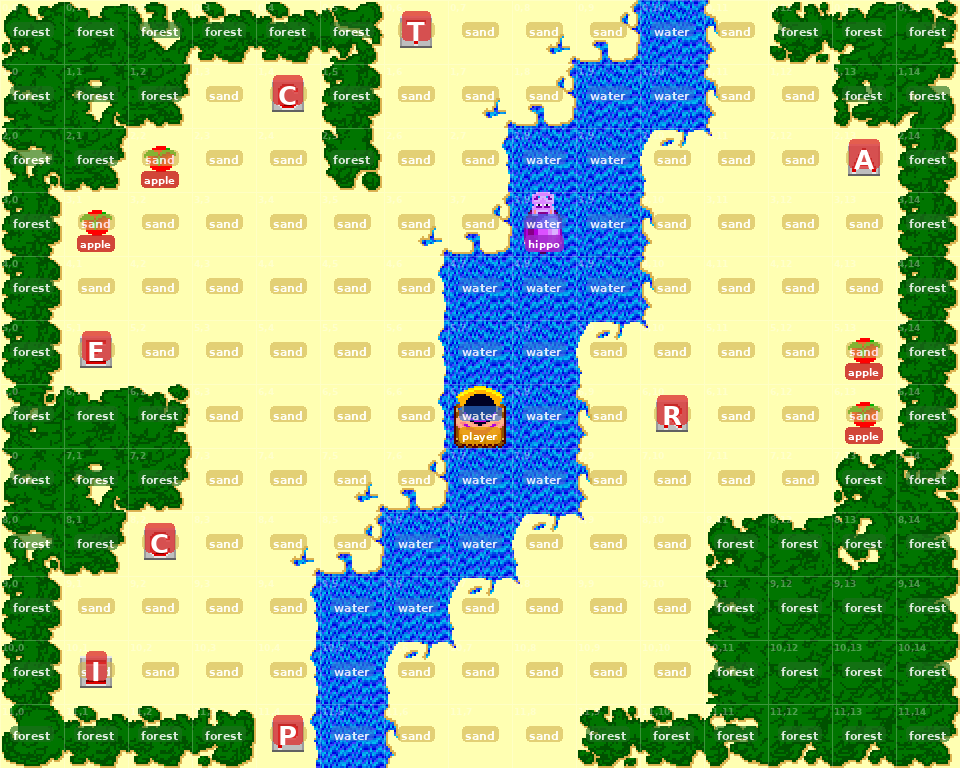
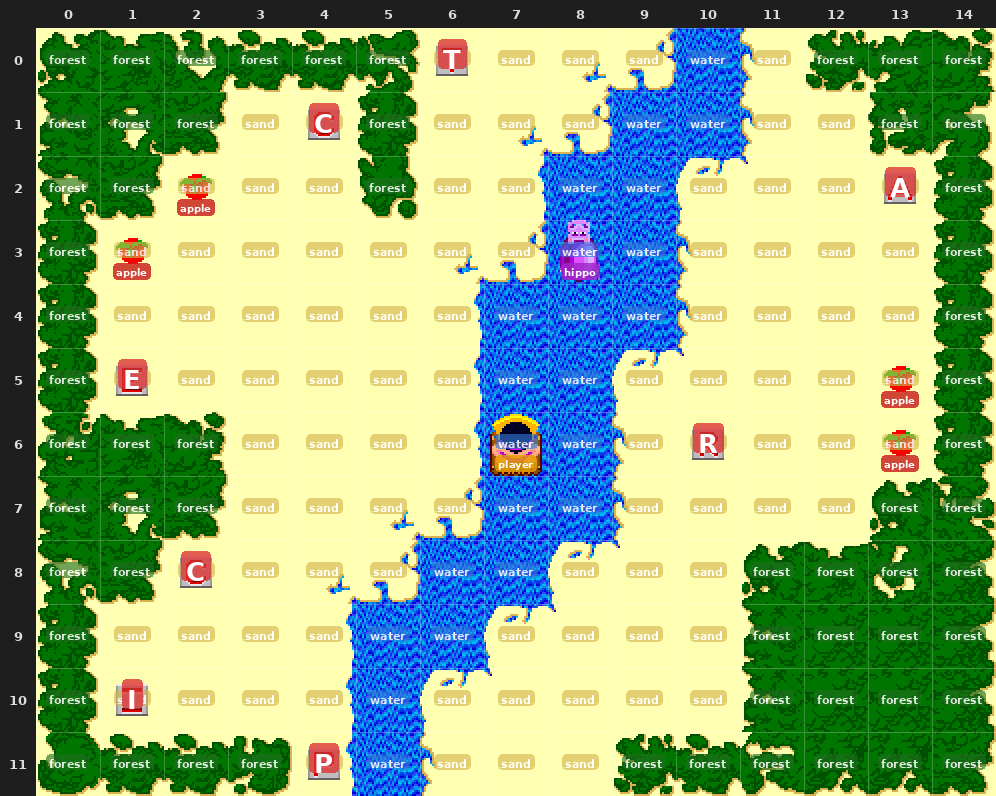
Add axis row/col labels to annotated boards
Replace per-tile coordinate text with clear axis labels:
- Column numbers (0-14) along the top margin
- Row numbers (0-11) along the left margin
- Dark grey border areas for contrast
- Tiles are no longer cluttered with r,c text on every cell

diff --git a/annotate_board.py b/annotate_board.py
@@ -22,8 +22,12 @@ TILE_SIZE = 64
 COLS = 15
 ROWS = 12
 
+# Axis label margins (pixels added outside the tile grid)
+MARGIN_LEFT = 36
+MARGIN_TOP  = 28
+
 GRID_LINE   = (255, 255, 255, 60)
-COORD_COLOR = (255, 255, 255, 80)
+AXIS_COLOR  = (220, 220, 220, 255)
 
 LETTER_BG = (220, 50, 50, 200)
 LETTER_FG = (255, 255, 255, 255)
@@ -104,28 +108,50 @@ def annotate(board_path: Path, tile_dir: Path,
              letter_refs: dict, terrain_lookup: dict,
              show: str, out_path: Path) -> None:
 
-    board = Image.open(board_path).convert("RGBA")
-    overlay = Image.new("RGBA", board.size, (0, 0, 0, 0))
+    board_raw = Image.open(board_path).convert("RGBA")
+    # Add margins for axis labels
+    w = MARGIN_LEFT + COLS * TILE_SIZE
+    h = MARGIN_TOP  + ROWS * TILE_SIZE
+    board = Image.new("RGBA", (w, h), (30, 30, 30, 255))
+    board.paste(board_raw, (MARGIN_LEFT, MARGIN_TOP))
+
+    overlay = Image.new("RGBA", (w, h), (0, 0, 0, 0))
     draw = ImageDraw.Draw(overlay)
 
     font_terrain = _load_font(11)
     font_letter  = _load_font(26)
     font_sprite  = _load_font(10)
-    font_coord   = _load_font(9)
+    font_axis    = _load_font(13)
 
-    # Grid lines
+    # Grid lines (offset into tile area)
     for col in range(COLS + 1):
-        draw.line([(col * TILE_SIZE, 0), (col * TILE_SIZE, ROWS * TILE_SIZE)],
+        x = MARGIN_LEFT + col * TILE_SIZE
+        draw.line([(x, MARGIN_TOP), (x, MARGIN_TOP + ROWS * TILE_SIZE)],
                   fill=GRID_LINE, width=1)
     for row in range(ROWS + 1):
-        draw.line([(0, row * TILE_SIZE), (COLS * TILE_SIZE, row * TILE_SIZE)],
+        y = MARGIN_TOP + row * TILE_SIZE
+        draw.line([(MARGIN_LEFT, y), (MARGIN_LEFT + COLS * TILE_SIZE, y)],
                   fill=GRID_LINE, width=1)
 
-    # Row/col coordinates (top-left corner of each tile)
+    # Column numbers along the top axis
+    for col in range(COLS):
+        label = str(col)
+        bbox = font_axis.getbbox(label)
+        tw = bbox[2] - bbox[0]
+        cx = MARGIN_LEFT + col * TILE_SIZE + TILE_SIZE // 2
+        cy = MARGIN_TOP // 2
+        draw.text((cx - tw // 2 - bbox[0], cy - (bbox[3] - bbox[1]) // 2 - bbox[1]),
+                  label, fill=AXIS_COLOR, font=font_axis)
+
+    # Row numbers along the left axis
     for row in range(ROWS):
-        for col in range(COLS):
-            draw.text((col * TILE_SIZE + 2, row * TILE_SIZE + 2),
-                      f"{row},{col}", fill=COORD_COLOR, font=font_coord)
+        label = str(row)
+        bbox = font_axis.getbbox(label)
+        tw = bbox[2] - bbox[0]
+        cx = MARGIN_LEFT // 2
+        cy = MARGIN_TOP + row * TILE_SIZE + TILE_SIZE // 2
+        draw.text((cx - tw // 2 - bbox[0], cy - (bbox[3] - bbox[1]) // 2 - bbox[1]),
+                  label, fill=AXIS_COLOR, font=font_axis)
 
     # Load the pre-parsed level JSON (sprites + background terrain already computed)
     level_json = Path("levels") / f"{tile_dir.name}.json"
@@ -136,7 +162,8 @@ def annotate(board_path: Path, tile_dir: Path,
         terrain_map = classify_level(tile_dir, terrain_lookup)
         for stem, label in terrain_map.items():
             row, col = int(stem[1:3]), int(stem[5:7])
-            x, y = col * TILE_SIZE, row * TILE_SIZE
+            x = MARGIN_LEFT + col * TILE_SIZE
+            y = MARGIN_TOP  + row * TILE_SIZE
 
             # For object tiles, show the background terrain from the JSON
             if level_data:
@@ -154,7 +181,8 @@ def annotate(board_path: Path, tile_dir: Path,
                 sprite_objs = [o for o in tile["objects"] if o["type"] == "sprite"]
                 if sprite_objs:
                     name = sprite_objs[0]["value"]
-                    x, y = col * TILE_SIZE, row * TILE_SIZE
+                    x = MARGIN_LEFT + col * TILE_SIZE
+                    y = MARGIN_TOP  + row * TILE_SIZE
                     bg = SPRITE_COLORS.get(name, (40, 40, 180, 210))
                     _draw_badge(draw, x, y, name, bg, SPRITE_FG_DEFAULT,
                                 font_sprite, pad=3, anchor_bottom=True)
@@ -164,7 +192,8 @@ def annotate(board_path: Path, tile_dir: Path,
         letters = detect_letters(tile_dir, letter_refs)
         for stem, letter in letters.items():
             row, col = int(stem[1:3]), int(stem[5:7])
-            x, y = col * TILE_SIZE, row * TILE_SIZE
+            x = MARGIN_LEFT + col * TILE_SIZE
+            y = MARGIN_TOP  + row * TILE_SIZE
             _draw_badge(draw, x, y, letter, LETTER_BG, LETTER_FG, font_letter, pad=5)
 
     result = Image.alpha_composite(board, overlay).convert("RGB")